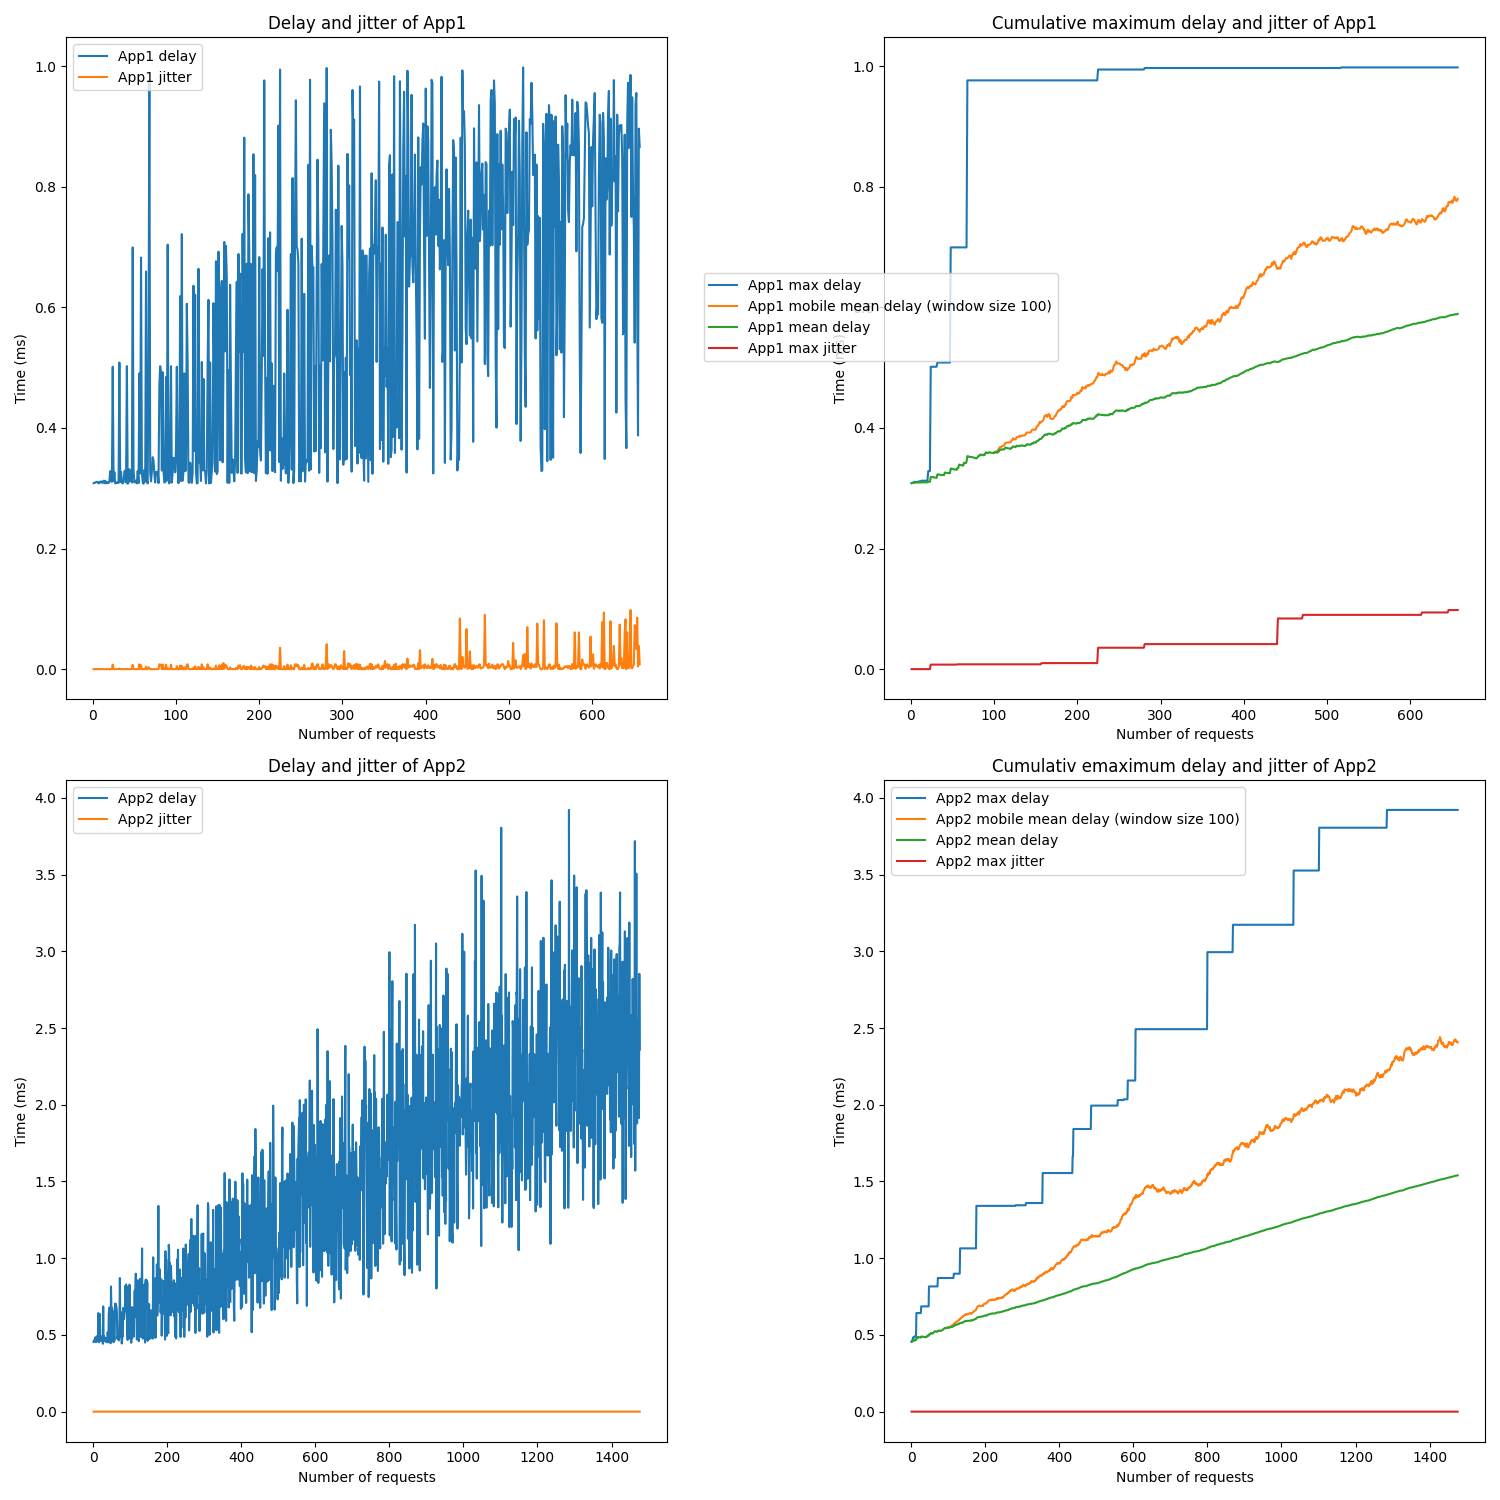
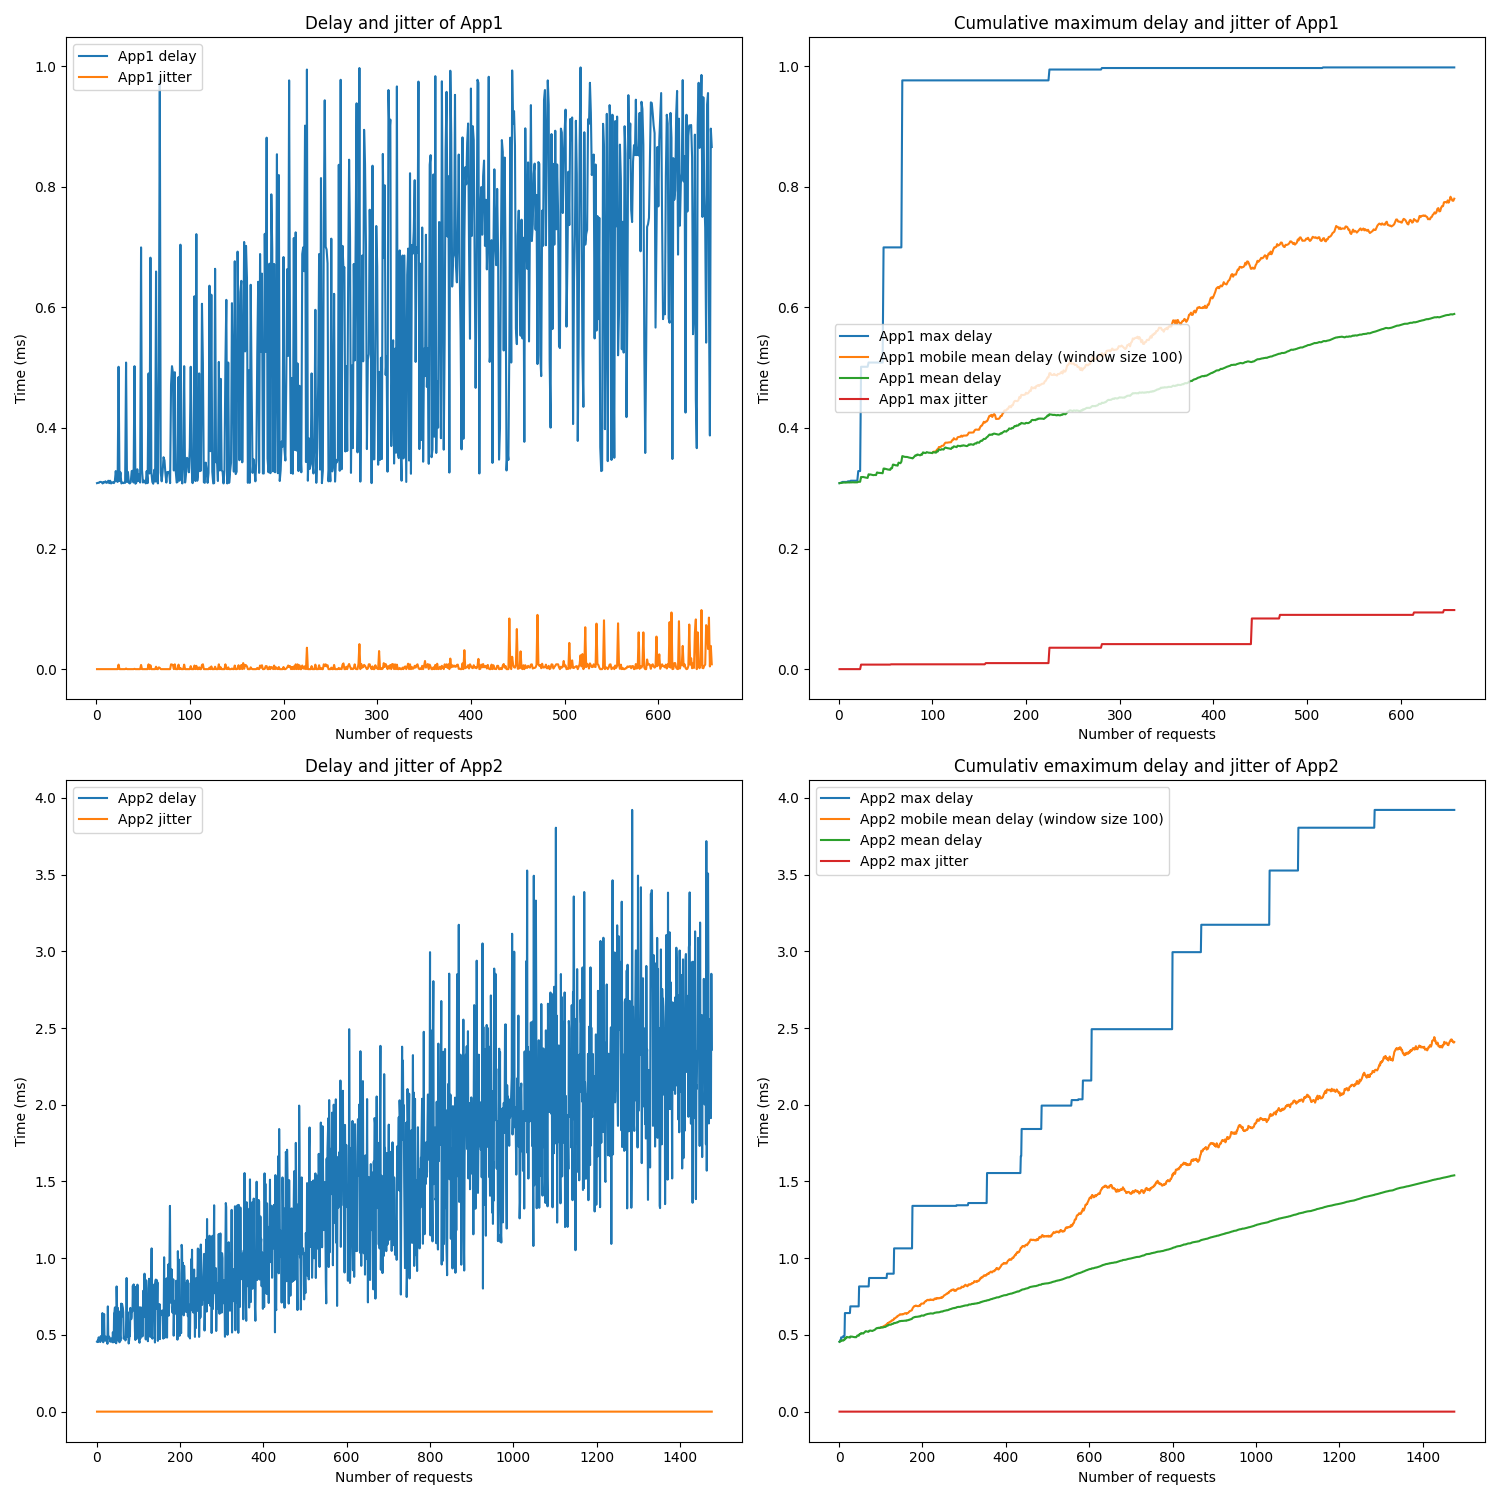
Validation results - Autocommit

diff --git a/instance_generator/generate_graph.py b/instance_generator/generate_graph.py
@@ -246,7 +246,7 @@ ax[0,1].plot(app1_n_requests, app1_filtered['mean100_delay_app1'], label='App1 m
 ax[0,1].plot(app1_n_requests, app1_filtered['mean_delay_app1'], label='App1 mean delay')
 
 ax[0,1].plot(app1_n_requests, app1_cumulative_jitter, label='App1 max jitter')
-ax[0,1].legend(bbox_to_anchor=(0.3, 0.5))
+ax[0,1].legend(bbox_to_anchor=(0.3, 0.5), loc='center')
 ax[0,1].set_xlabel('Number of requests')
 ax[0,1].set_ylabel('Time (ms)')
 ax[0,1].set_title('Cumulative maximum delay and jitter of App1')
